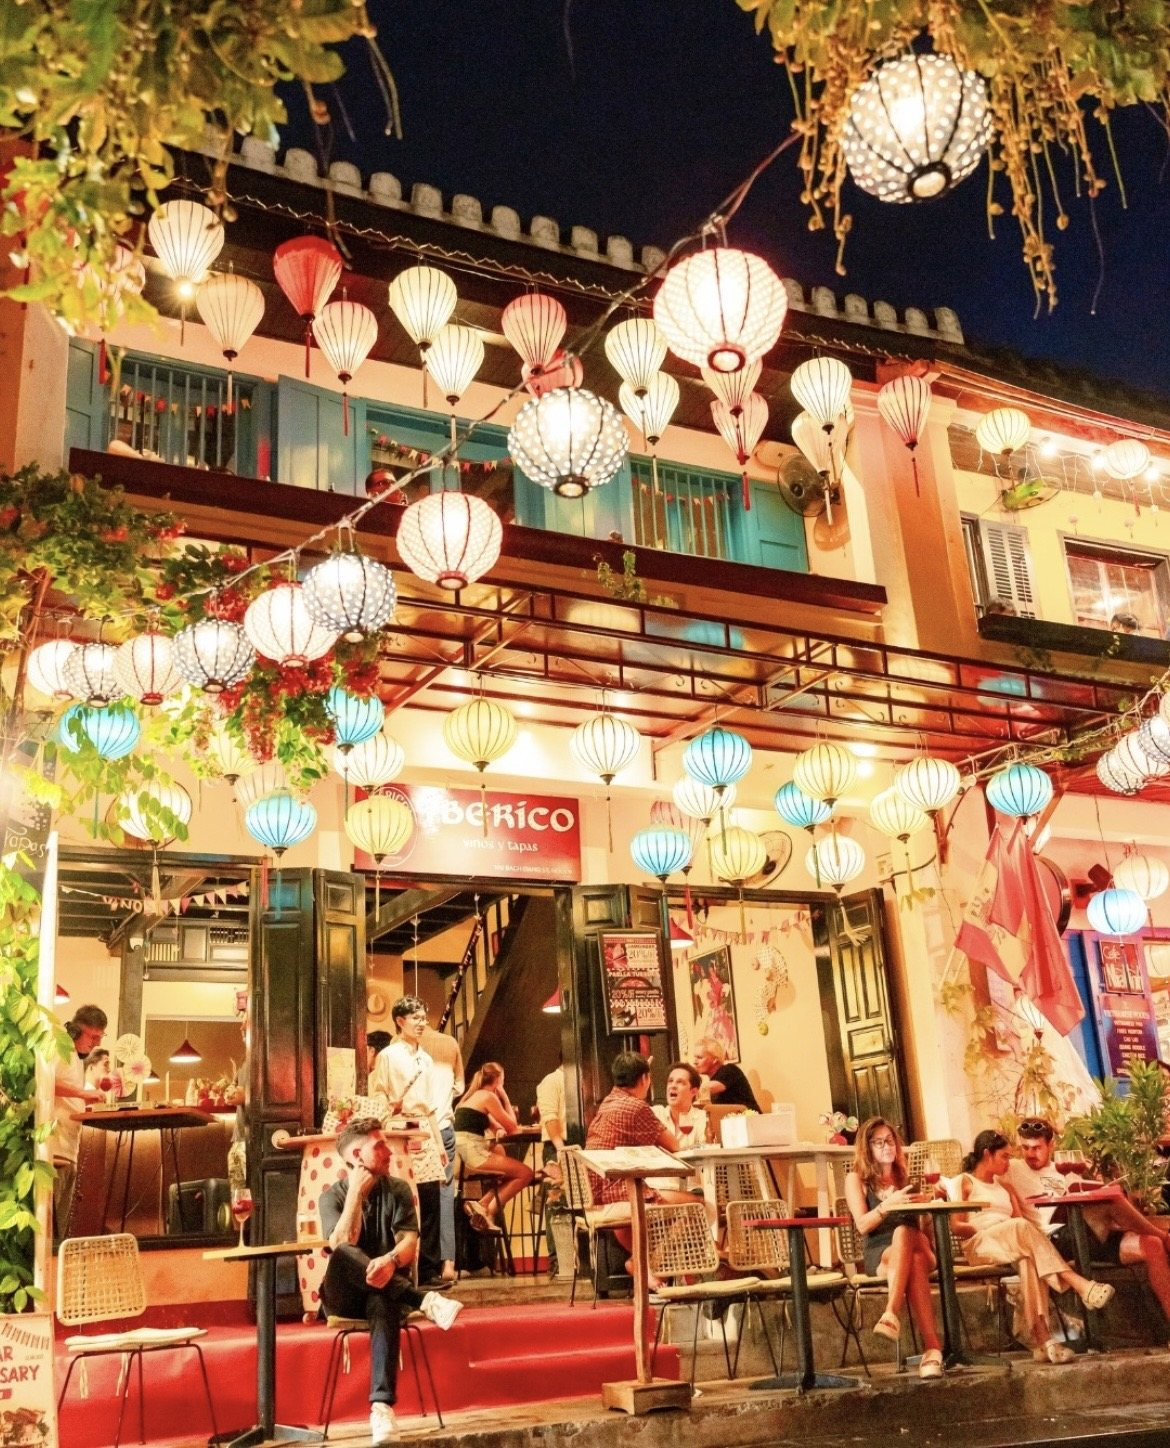
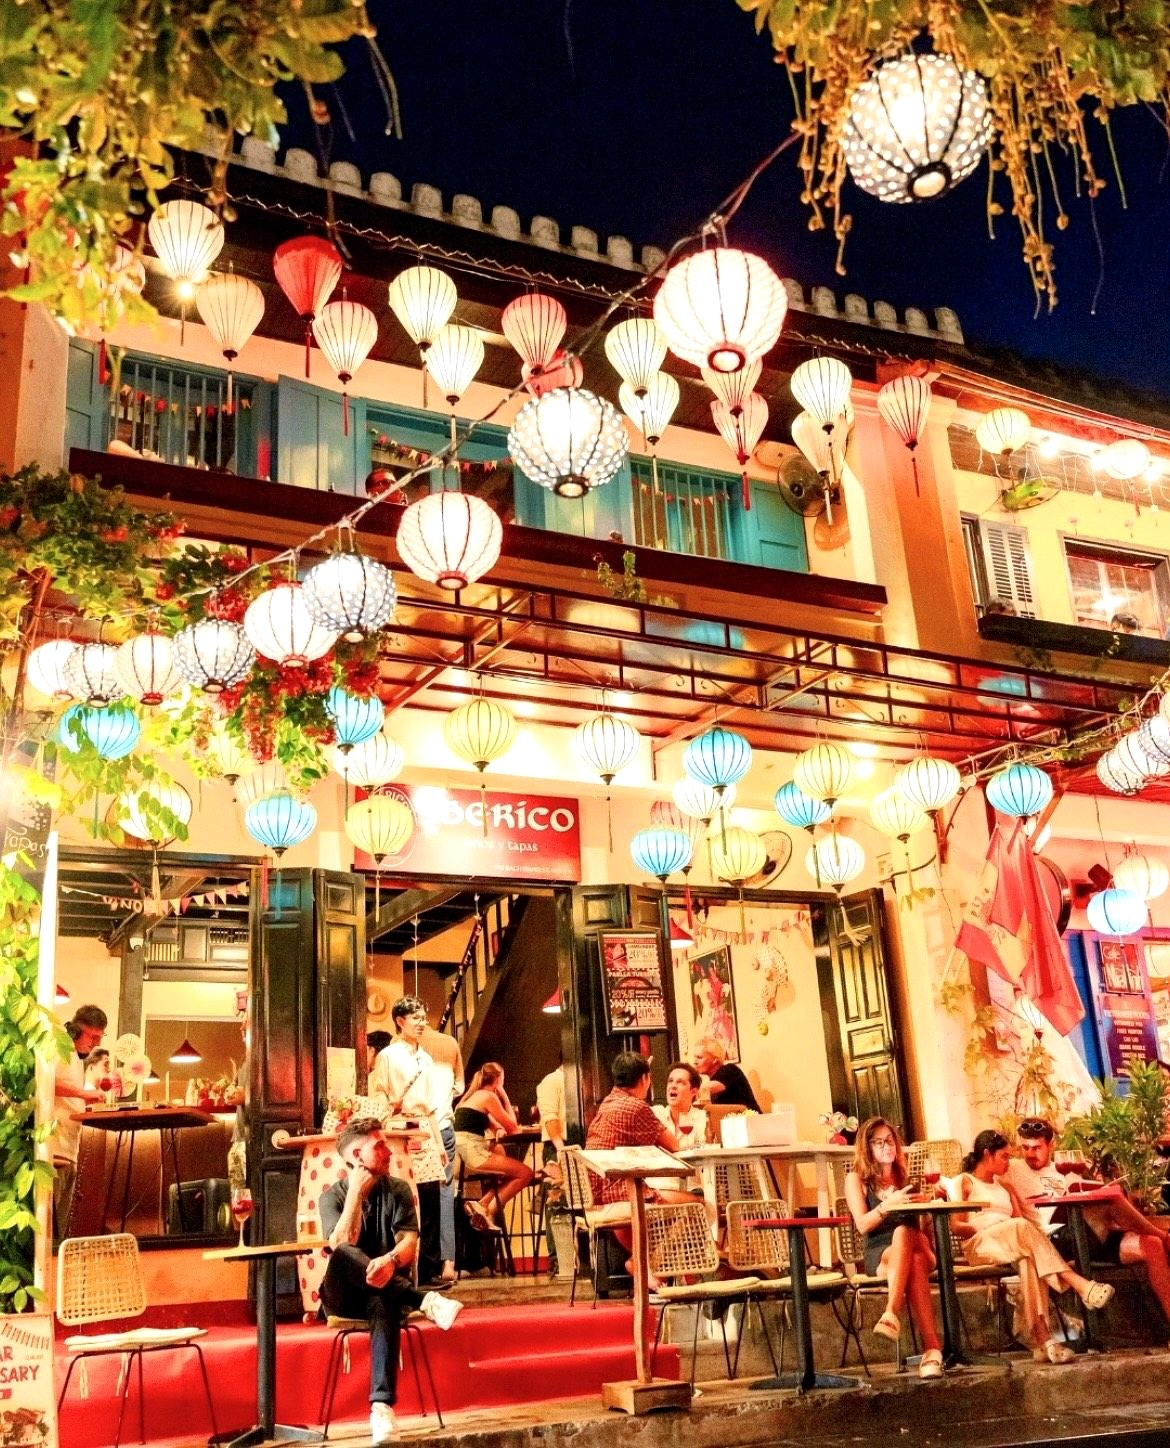
Show full location photos, no cropping, plus light photo enhancement
The photo above each location's map was being cropped hard by a fixed
short aspect ratio. Switched to a letterboxed full-picture display
(object-contain) so the whole photo is always visible, and applied a
light auto-contrast/color/sharpness pass to the three location photos.

diff --git a/src/components/Locations.tsx b/src/components/Locations.tsx
@@ -120,13 +120,13 @@ export function Locations() {
           </AnimatePresence>
 
           <div className="flex flex-col">
-            <div className="relative h-40 shrink-0 sm:h-48 lg:h-56">
+            <div className="relative h-64 shrink-0 bg-ink sm:h-80 lg:h-96">
               <Image
                 src={LOCATION_PHOTOS[loc.name]}
                 alt={`${loc.name} storefront`}
                 fill
                 sizes="(max-width: 1024px) 100vw, 50vw"
-                className="object-cover"
+                className="object-contain"
               />
             </div>
             <LocationMap key={loc.name} loc={loc} />
